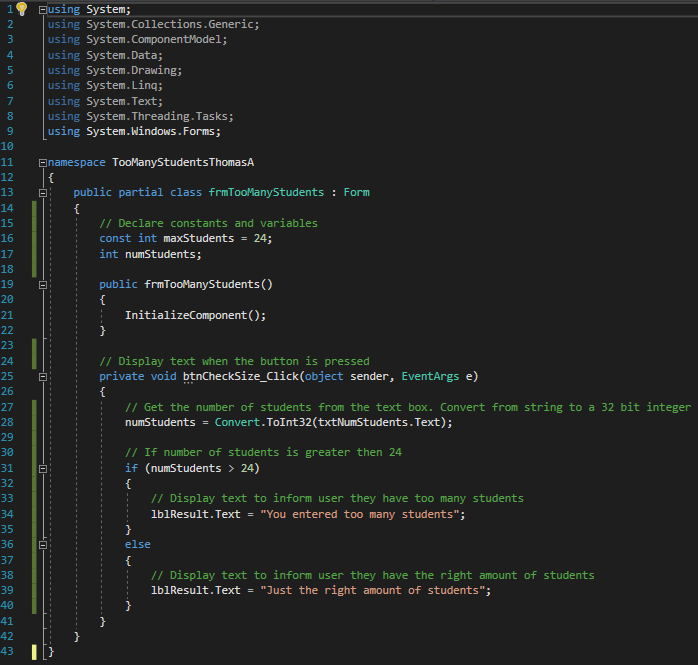
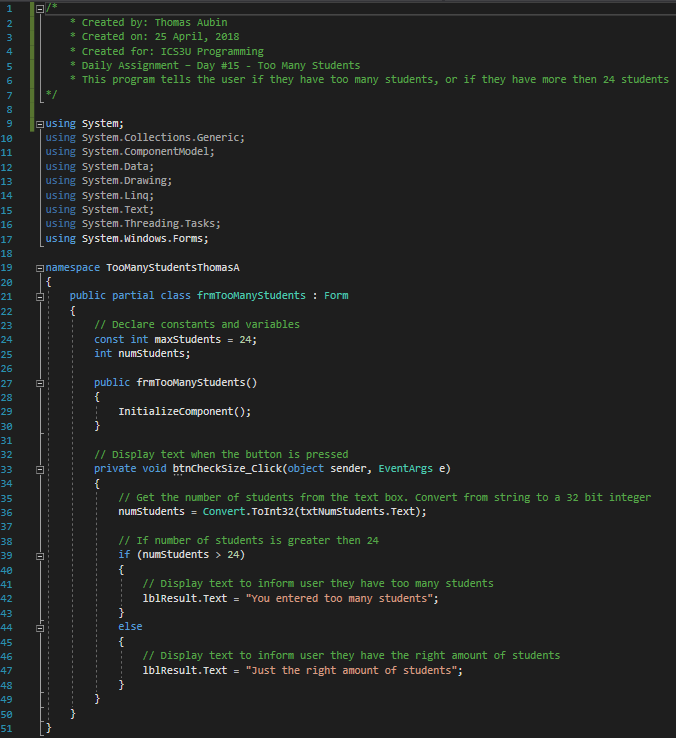
Added Header Comment

diff --git a/TooManyStudentsThomasA/TooManyStudentsForm.cs b/TooManyStudentsThomasA/TooManyStudentsForm.cs
@@ -1,4 +1,12 @@
-using System;
+/*
+    * Created by: Thomas Aubin
+    * Created on: 25 April, 2018
+    * Created for: ICS3U Programming
+    * Daily Assignment – Day #15 - Too Many Students
+    * This program tells the user if they have too many students, or if they have more then 24 students
+*/
+
+using System;
 using System.Collections.Generic;
 using System.ComponentModel;
 using System.Data;
